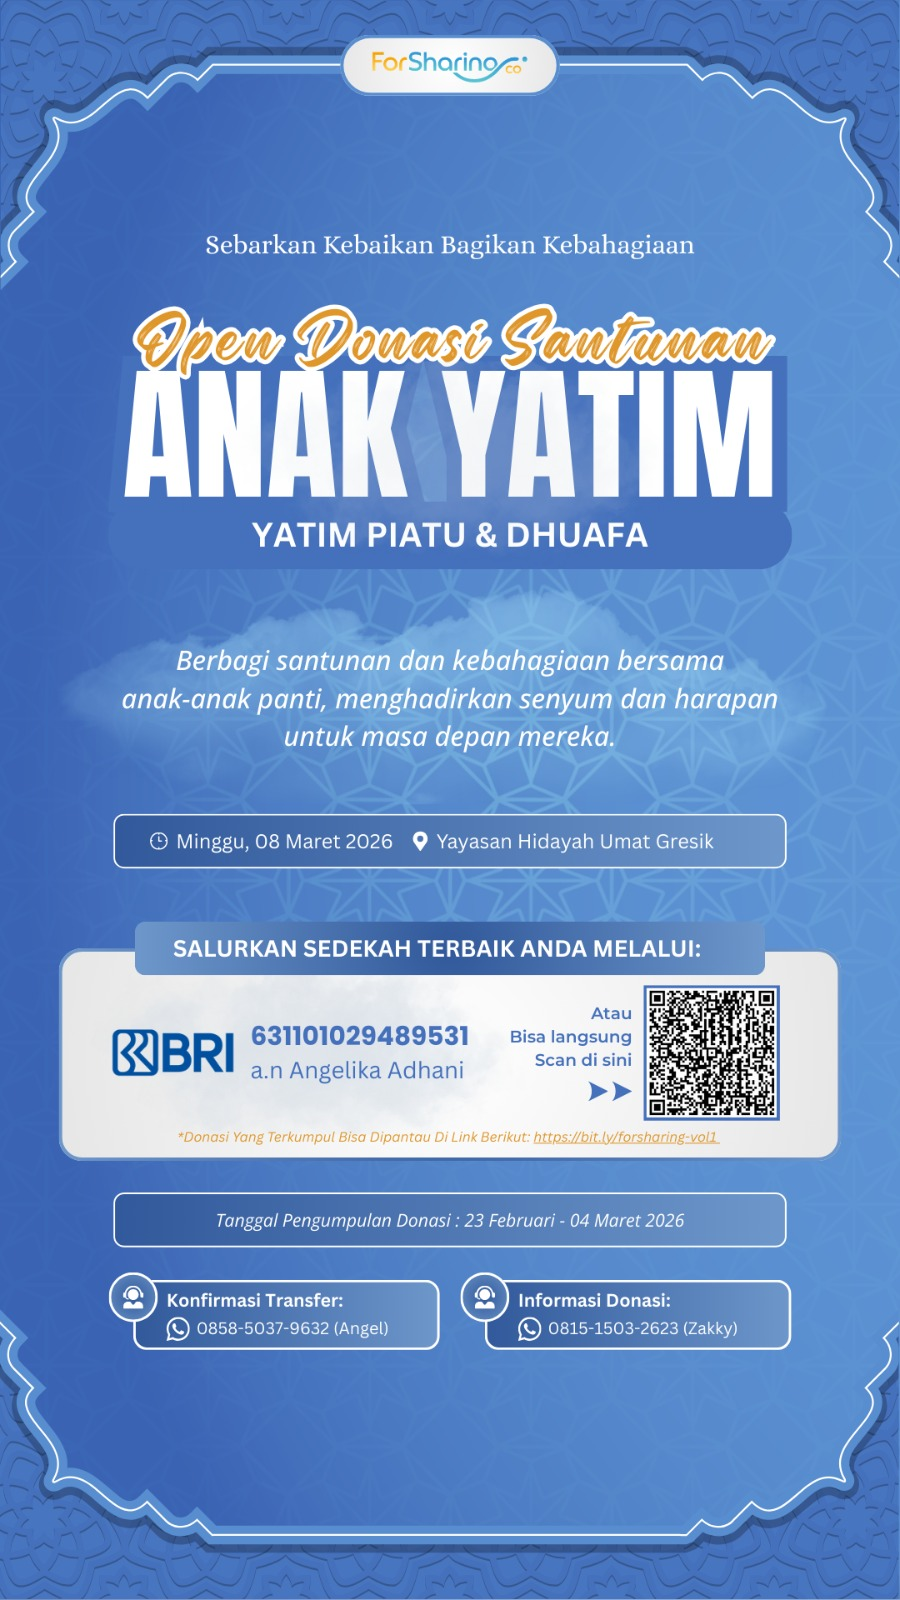
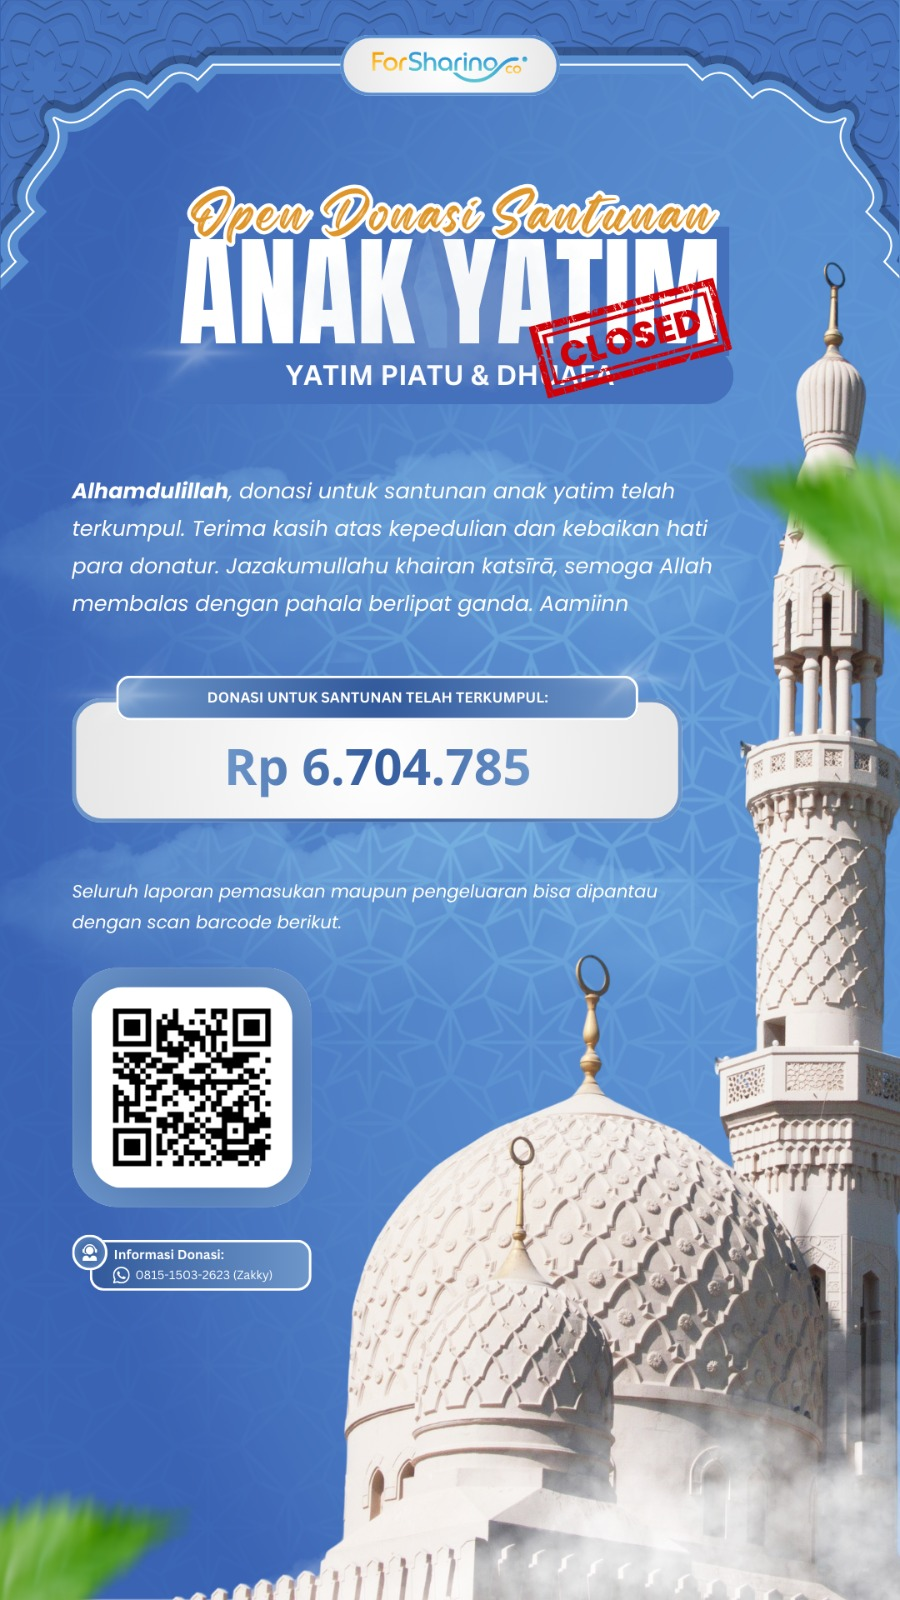
update ke 20

diff --git a/app/page.tsx b/app/page.tsx
@@ -38,11 +38,11 @@ type DataReport = {
 };
 
 const dataReportInitial: DataReport = {
-  donatur: 61,
-  totalDonasi: 6504785,
+  donatur: 65,
+  totalDonasi: 6774785,
   totalPengeluaran: 0,
   sisaKeuangan: 0,
-  tanggal: "04-03-26 - 08:28 WIB",
+  tanggal: "04-03-26 - 18:58 WIB",
 };
 
 export default function Home() {
@@ -241,13 +241,6 @@ export default function Home() {
               <Image
                 src={"/images/assets/banner.jpeg"}
                 alt="banner"
-                width={384}
-                height={256}
-                className="mx-auto rounded-2xl"
-              />
-              <Image
-                src={"/images/assets/qris.jpeg"}
-                alt="QRIS"
                 width={384}
                 height={256}
                 className="mx-auto rounded-2xl"
